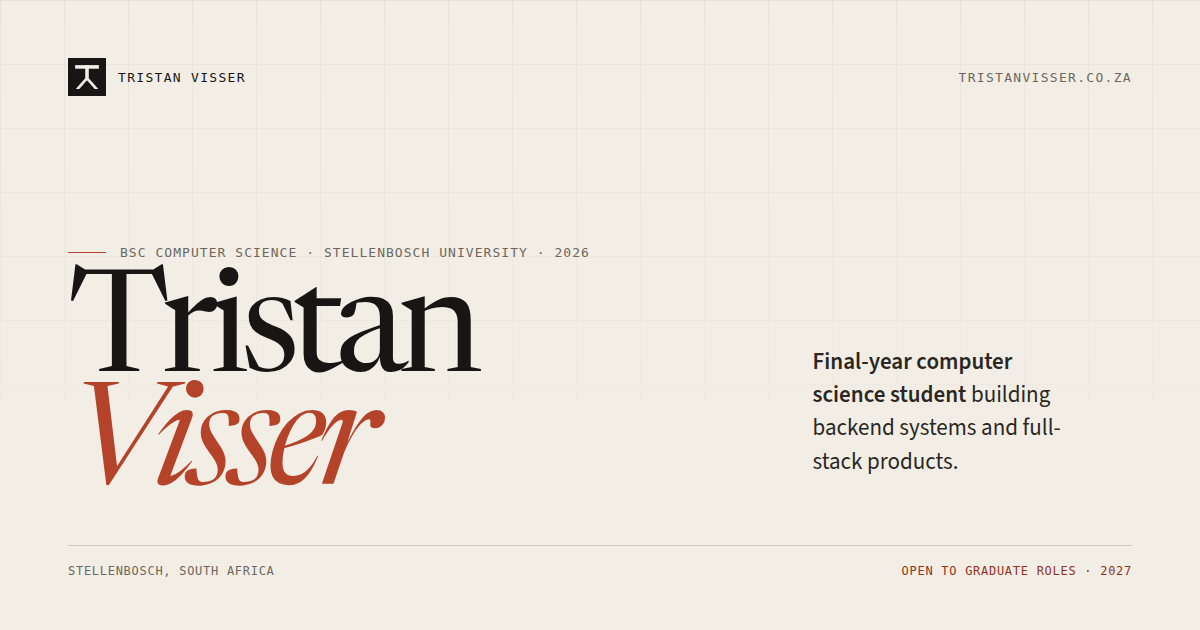
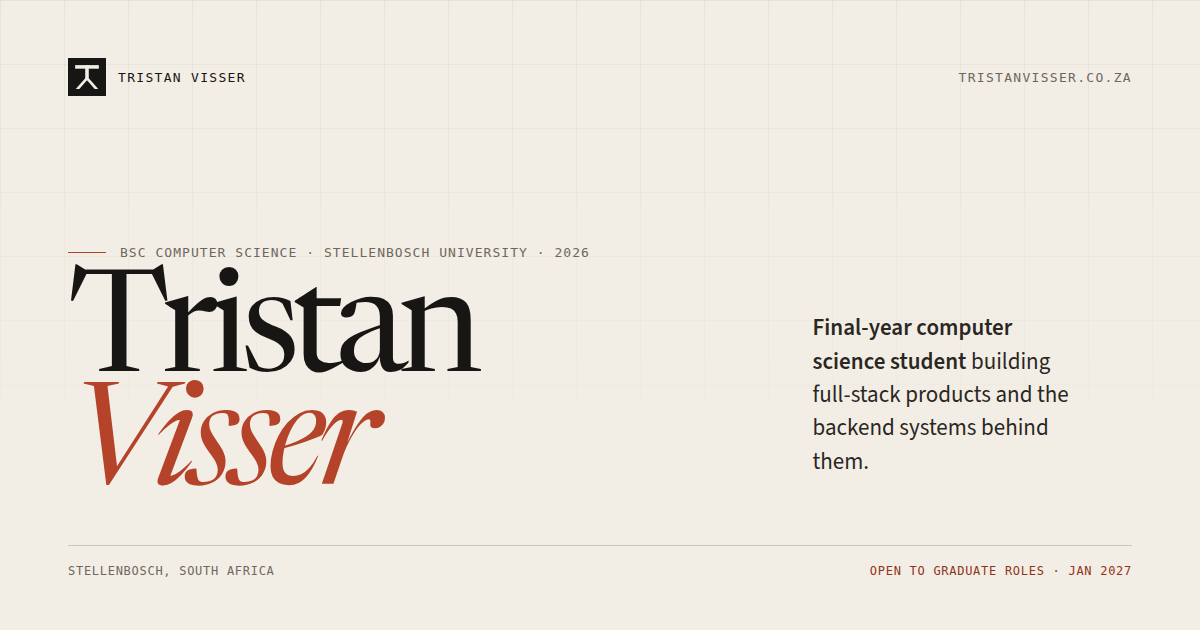
Tighten SEO metadata and remove em dashes

Changed region(s): [[0.6783, 0.5127, 0.8942, 0.6937], [0.74, 0.8746, 0.925, 0.9349], [0.6783, 0.7238, 0.8017, 0.754]]

diff --git a/src/lib/seo.ts b/src/lib/seo.ts
@@ -26,7 +26,8 @@ export function personSchema(): JsonLd {
     '@id': `${site.url}/#person`,
     name: site.name,
     url: site.url,
-    email: `mailto:${site.email}`,
+    email: site.email,
+    image: absoluteUrl('/og.png'),
     jobTitle: 'Computer Science student',
     description: site.description,
     knowsAbout: [
@@ -44,9 +45,16 @@ export function personSchema(): JsonLd {
       'Prisma',
       'Cloudflare',
     ],
+    address: {
+      '@type': 'PostalAddress',
+      addressLocality: 'Stellenbosch',
+      addressRegion: 'Western Cape',
+      addressCountry: 'ZA',
+    },
     alumniOf: {
       '@type': 'CollegeOrUniversity',
       name: site.university,
+      url: 'https://www.sun.ac.za/',
     },
     sameAs: socialLinks.filter((link) => link.icon !== 'mail').map((link) => link.href),
   };

diff --git a/src/data/cv.ts b/src/data/cv.ts
@@ -3,7 +3,7 @@ export const cv = {
     'Final-year Computer Science student at Stellenbosch University. Backend, database and full-stack experience with Electrum and commercial clients. Seeking a graduate software engineering role from January 2027.',
   education: [
     {
-      date: '2023 — 2026',
+      date: '2023–2026',
       title: 'BSc Computer Science',
       org: 'Stellenbosch University',
       detail: 'Focus: backend, databases, REST APIs and software engineering. Expected 2026.',
@@ -11,7 +11,7 @@ export const cv = {
   ],
   experience: [
     {
-      date: '2025 — Present',
+      date: '2025–Present',
       title: 'Commercial Web Developer & Technical Consultant',
       org: 'Freelance · Local business clients',
       bullets: [

diff --git a/src/config.ts b/src/config.ts
@@ -1,8 +1,8 @@
 export const site = {
   name: 'Tristan Visser',
-  title: 'Tristan Visser — Computer Science graduate',
+  title: 'Tristan Visser · Computer Science Graduate',
   description:
-    'Final-year BSc Computer Science student at Stellenbosch University. I build backend systems, relational databases and full-stack web applications. Open to graduate software engineering roles from January 2027.',
+    'Final-year computer science student at Stellenbosch University building full-stack products and backend systems. Available for graduate roles from January 2027.',
   url: 'https://tristanvisser.co.za',
   repoUrl: 'https://github.com/tristan-visser/portfolio',
   locale: 'en-ZA',

diff --git a/docs/design/og.html b/docs/design/og.html
@@ -156,13 +156,13 @@
           <h1>Tristan<br /><em>Visser</em></h1>
         </div>
         <p class="aside">
-          <strong>Final-year computer science student</strong> building backend systems and
-          full-stack products.
+          <strong>Final-year computer science student</strong> building full-stack products and the
+          backend systems behind them.
         </p>
       </div>
       <div class="foot">
         <span>Stellenbosch, South Africa</span>
-        <span class="accent">Open to graduate roles · 2027</span>
+        <span class="accent">Open to graduate roles · Jan 2027</span>
       </div>
     </div>
   </body>

diff --git a/src/content/projects/hackathon-hosting-platform.md b/src/content/projects/hackathon-hosting-platform.md
@@ -21,11 +21,11 @@ order: 2
 cover:
   src: ./images/hackathon-code-editor.png
   alt: Hackathon platform code editor showing a Python submission, a file explorer, and the problem statement.
-  caption: The collaborative editor — problem statement, virtual file system and Python submission in one view.
+  caption: The collaborative editor, showing the problem statement, virtual file system and Python submission in one view.
 gallery:
   - src: ./images/hackathon-leaderboard.png
     alt: Hackathon platform leaderboard showing a live event timer, team members, problem tabs and ranked teams by tests passed and runtime.
-    caption: The live leaderboard — tests passed, runtime and team rankings.
+    caption: The live leaderboard, showing tests passed, runtime and team rankings.
 ---
 
 ## The problem

diff --git a/src/content/projects/p2p-encrypted-file-sharing.md b/src/content/projects/p2p-encrypted-file-sharing.md
@@ -18,7 +18,7 @@ featured: true
 order: 3
 cover:
   src: ./images/p2p-demo.png
-  alt: Two P2P file-sharing windows side by side — Alice sharing a folder of files, and Bob downloading one file with progress and pause/resume controls.
+  alt: Two P2P file-sharing windows side by side, with Alice sharing a folder of files and Bob downloading one file with progress and pause/resume controls.
   caption: Alice shares a folder; Bob finds and downloads a file directly, with pause/resume progress.
 ---
 

diff --git a/src/content/projects/electrum-dependency-engine.md b/src/content/projects/electrum-dependency-engine.md
@@ -19,7 +19,7 @@ order: 1
 cover:
   src: ./images/pomegranate-analysis.png
   alt: Pomegranate analysis view showing a Maven dependency graph with red and green verdicts, evidence for a missing symbol, and an AI summary panel.
-  caption: Pomegranate's analysis view — blast radius, evidence and a per-artifact verdict.
+  caption: Pomegranate's analysis view, showing blast radius, evidence and a per-artifact verdict.
 ---
 
 ## The problem

diff --git a/src/content/projects/wistl-compiler.md b/src/content/projects/wistl-compiler.md
@@ -16,7 +16,7 @@ order: 8
 cover:
   src: ./images/wistl-pipeline.svg
   alt: WISTL compiler pipeline from source through scanner, LL(1) parser, symbol table and type checker, JVM code generation, to a class file.
-  caption: The compiler pipeline — scanner, LL(1) parser, type checker and JVM code generation.
+  caption: The compiler pipeline, from scanner and LL(1) parser to type checking and JVM code generation.
 ---
 
 ## The problem

diff --git a/src/content/projects/smart-track-organizer.md b/src/content/projects/smart-track-organizer.md
@@ -15,7 +15,7 @@ order: 6
 cover:
   src: ./images/smart-track-ui.png
   alt: Smart Track Organizer Pro dashboard showing categorised tracks, live preview rows and studio colour labels.
-  caption: Smart Track Organizer Pro — the live preview and category dashboard inside REAPER.
+  caption: Smart Track Organizer Pro, showing the live preview and category dashboard inside REAPER.
 ---
 
 ## The problem
